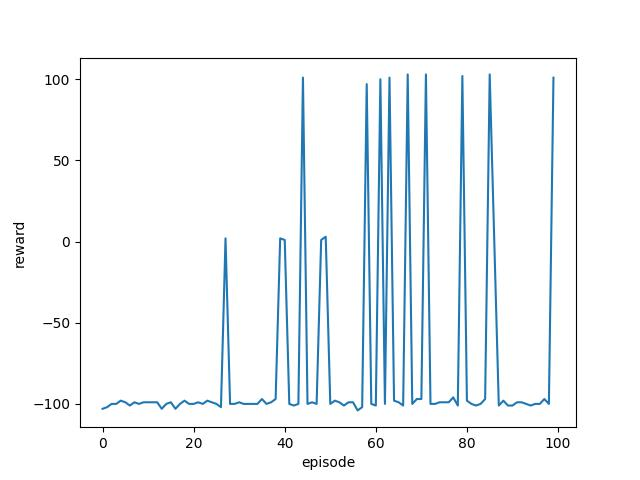
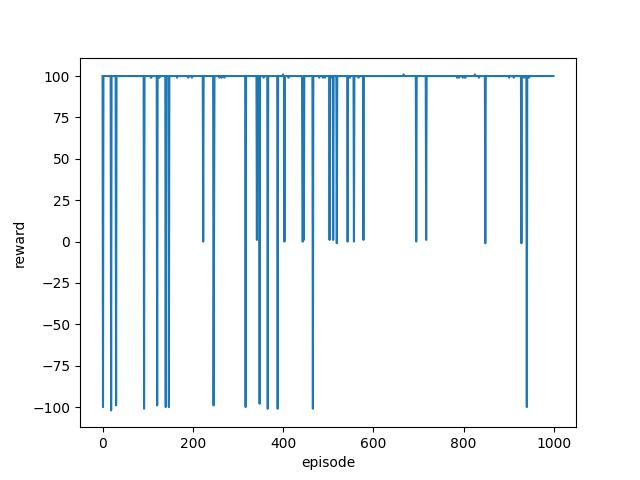
success a moment

diff --git a/buttle_world.py b/buttle_world.py
@@ -5,7 +5,7 @@ class ButtleWorld:
         # バトルフィールドの初期化
         # HPの初期化
         self.agent_init_state = hp
-        self.enemy_init_state = hp
+        self.enemy_init_state = hp / 2
         # バフの初期化
         self.agent_init_buff = False
         self.enemy_init_buff = False
@@ -37,9 +37,9 @@ class ButtleWorld:
         enemy_damage = self.damage[self.actions[enemy_action]]
         agent_damage = self.damage[self.actions[agent_action]]
         if agent_buff:
-            agent_damage = agent_damage * 2
+            agent_damage = agent_damage * 20
         if enemy_buff:
-            enemy_damage = enemy_damage * 2
+            enemy_damage = enemy_damage * 20
         
         # HPの更新
         agent_hp = agent_hp - enemy_damage

diff --git a/main2.py b/main2.py
@@ -8,12 +8,12 @@ from buttle_world import ButtleWorld
 # 報酬：勝ったら100，負けたら-100，引き分けは0, 相手よりもダメージが高いと+1, 相手よりもダメージが低いと-1
 
 # 定数
-NB_EPISODE = 100    # エピソード数
+NB_EPISODE = 1000    # エピソード数
 EPSILON = 0.1    # 探索率
 ALPHA = 0.1      # 学習率
 GAMMA = 0.90
 ACTIONS = np.arange(4)  # 行動の集合
-HP = 30
+HP = 16
 
 if __name__ == '__main__':
     buttle_env = ButtleWorld(hp = HP) # バトルフィールドの初期化
